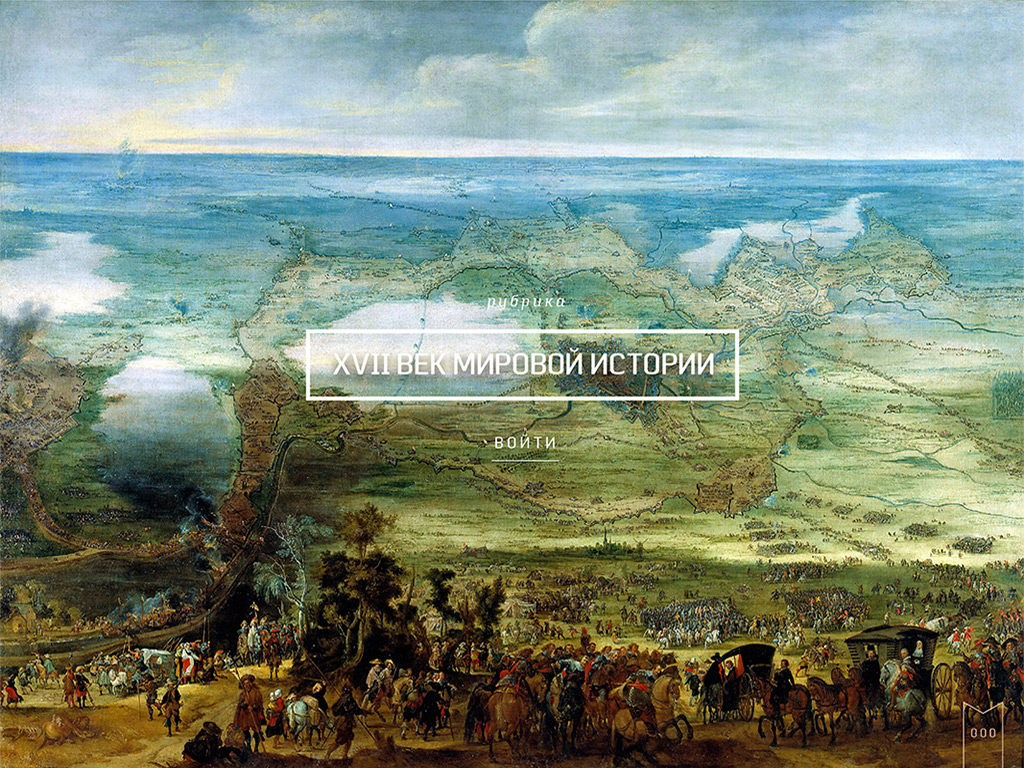
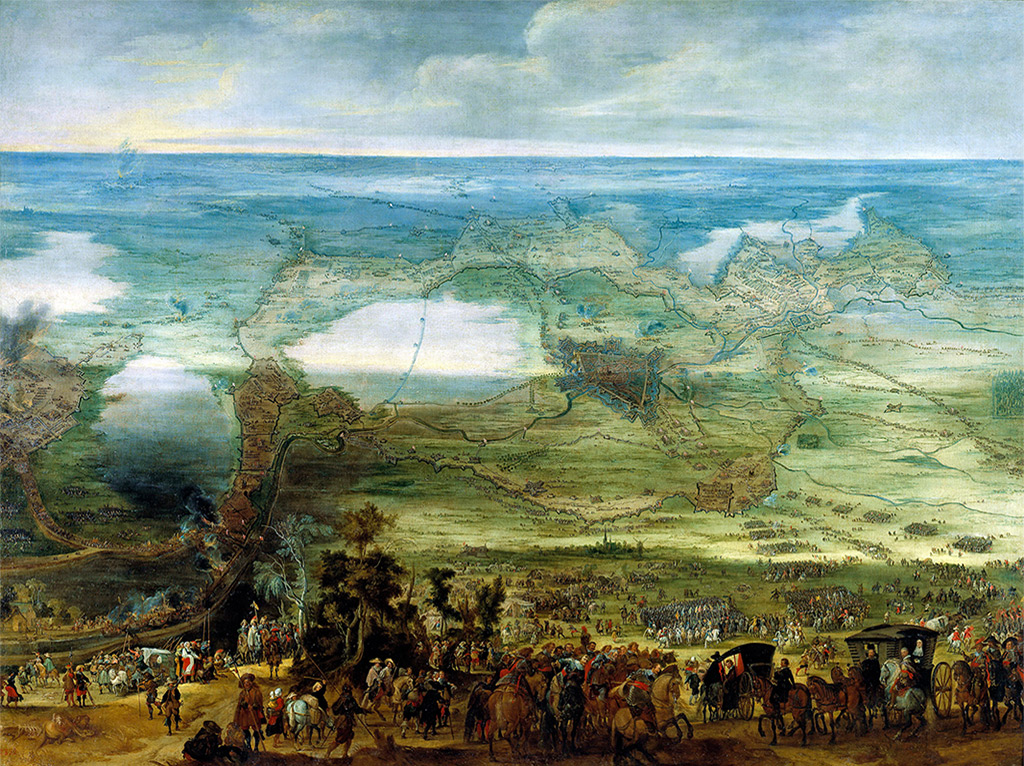
Added photo slider

diff --git a/ibooks/css/all.css b/ibooks/css/all.css
@@ -166,7 +166,7 @@ a:visited{
         padding: 0 80px;
         position: relative;
     }
-    .carousel-content:not([class*="foreword-begin"]):after{
+    .carousel-content:not([class*="begin_slide"]):after{
         content: "";
         width: 42px;
         height: 68px;
@@ -175,10 +175,10 @@ a:visited{
         bottom: 0;
         background: url("../images/bg/all.png") no-repeat 0 -347px;
     }
-    .foreword-begin_cathedral{
+    [class*="foreword-begin"]{
         background: url("../images/src/preface-bg.jpg") no-repeat 0 0;
     }
-    .foreword-end_map{
+    [class*="foreword-end"]{
         background: url("../images/src/preface-end-bg.jpg") no-repeat 0 0;
     }
         .logo{
@@ -290,6 +290,46 @@ footer{
     margin: 32px 0 0;
 }
 
+/*  Last slide*/
+
+[class*="end_slide"] table{
+    text-align: center;
+    height: 100%;
+    font: 16px/16px 'pancetta_proregular';
+    color: #ffffff;
+}
+    [class*="end_slide"] td{
+        vertical-align: middle;
+    }
+        [class*="end_slide"] i{
+            display: inline-block;
+            font: 16px/16px 'pancetta_serif_proitalic';
+            letter-spacing: 2.8px;
+            margin: 0;
+            position: relative;
+            top: -14px;
+        }
+        [class*="end_slide"] strong{
+            border: 5px solid #ffffff;
+            display: inline-block;
+            font: 30px/63px 'pancetta_proregular';
+            letter-spacing: 0.2px;
+            margin: 0 0 31px;
+            padding: 0 22px;
+            position: relative;
+            text-transform: uppercase;
+            top: 5px;
+            text-shadow: 0px 3px 8px rgba(0, 0, 0, 1);
+        }
+        [class*="end_slide"] a{
+            border-bottom: 1px solid #ffffff;
+            display: inline-block;
+            font: 17px/33px 'pancetta_proregular';
+            letter-spacing: 2.4px;
+            padding: 0 5px;
+            text-transform: uppercase;
+        }
+
 /*  Internal Slider style*/
 
 .internal-slider{
@@ -301,10 +341,26 @@ footer{
     padding: 0 0 0 4px;
     border-left: 1px solid #d9c4af;
 }
+.internal-slider.owl-carousel{
+    border: 0;
+    padding: 0;
+}
     .internal-slider .slide1{
         background: url("../images/src/slide1.jpg") no-repeat 0 0 /cover;
         height: 100%;
     }
+    .internal-slider .slide2{
+        background: url("../images/src/slide2.jpg") no-repeat 0 0 /cover;
+        height: 100%;
+    }
+.internal-slider .slide3{
+    background: url("../images/src/slide3.jpg") no-repeat 0 0 /cover;
+    height: 100%;
+}
+.internal-slider .slide4{
+    background: url("../images/src/slide4.jpg") no-repeat 0 0 /cover;
+    height: 100%;
+}
         .glb{
             width: 44px;
             height: 44px;
@@ -346,4 +402,16 @@ footer{
 }
 .gm-style-cc[draggable="false"]{
     display: none;
+}
+
+.owl-controls{
+    bottom: 0;
+    height: 66px;
+    left: inherit;
+    right: 0;
+    width: 99%;
+    background: url("../images/bg/pagination-bg.png") repeat-x;
+}
+.owl-page{
+
 }

diff --git a/ibooks/preface.html b/ibooks/preface.html
@@ -16,13 +16,14 @@
     <script src="https://maps.googleapis.com/maps/api/js?v=3.exp&language=ru"></script>
 
 
+
 </head>
 
 <body>
 
-    <div class="owl-carousel owl-theme global-carousel">
+    <div class="owl-carousel global-carousel">
         <div class="item">
-            <div class="carousel-content foreword-begin_cathedral">
+            <div class="carousel-content foreword-begin_slide">
                 <h1 class="logo">Предисловие</h1>
             </div>
         </div>
@@ -41,8 +42,17 @@
                         </td>
                     </tr>
                 </table>
-                <div class="internal-slider">
+                <div class="global-carousel">
                     <div class="slide1">
+                        <a class="glb fancy_map" href="#map_canvas"></a>
+                    </div>
+                    <div class="slide2">
+                        <a class="glb fancy_map" href="#map_canvas"></a>
+                    </div>
+                    <div class="slide3">
+                        <a class="glb fancy_map" href="#map_canvas"></a>
+                    </div>
+                    <div class="slide4">
                         <a class="glb fancy_map" href="#map_canvas"></a>
                     </div>
                 </div>
@@ -111,7 +121,16 @@
             </div>
         </div>
         <div class="item">
-            <div class="carousel-content foreword-end_map">
+            <div class="carousel-content foreword-end_slide">
+                <table cellspacing="0" cellpadding="0" >
+                    <tr>
+                        <td>
+                            <i>рубрика</i> </br>
+                            <strong>XVII ВЕК МИРОВОЙ ИСТОРИИ</strong> </br>
+                            <a href="#">ВОЙТИ</a>
+                        </td>
+                    </tr>
+                </table>
             </div>
         </div>
     </div>
@@ -203,8 +222,7 @@
 
 </script>
 
-<!--
-<script src="script/pixp/hotkeys.js"></script>
+<!--<script src="script/pixp/hotkeys.js"></script>
 <script src="script/pixp/jquery-cookie.js"></script>
 <script src="script/pixp/jquery-ui.js"></script>
 <script src="script/pixp/pixp.min.js"></script>-->

diff --git a/ibooks/script/owl.carousel.js b/ibooks/script/owl.carousel.js
@@ -293,7 +293,7 @@ if (typeof Object.create !== "function") {
 
 
             $(window).load(function() {
-                $activeItem.css('margin-top' , $activeImg.height() / 2 - $activeItemHeight);
+               /* $activeItem.css('margin-top' , $activeImg.height() / 2 - $activeItemHeight);*/
                 $activeItem2.css('margin-top' , $activeImg.height() / 2 - $activeItemHeight2);
             });
 
@@ -1058,6 +1058,7 @@ if (typeof Object.create !== "function") {
                         handlers = $._data(ev.target, "events").click;
                         owlStopEvent = handlers.pop();
                         handlers.splice(0, 0, owlStopEvent);
+
                     }
                 }
                 swapEvents("off");
@@ -1510,7 +1511,7 @@ if (typeof Object.create !== "function") {
         responsiveRefreshRate : 200,
         responsiveBaseWidth : window,
 
-        baseClass : "owl-carousel",
+        baseClass : "internal-slider",
         theme : "owl-theme",
 
         lazyLoad : false,
@@ -1522,11 +1523,11 @@ if (typeof Object.create !== "function") {
         jsonPath : false,
         jsonSuccess : false,
 
-        dragBeforeAnimFinish : true,
+        dragBeforeAnimFinish : false,
         mouseDrag : true,
         touchDrag : true,
 
-        addClassActive : false,
+        addClassActive : true,
         transitionStyle : false,
 
         beforeUpdate : false,

diff --git a/ibooks/css/owl.carousel.css b/ibooks/css/owl.carousel.css
@@ -45,14 +45,14 @@ div.owl-carousel{
 .owl-controls .owl-buttons div{
 	cursor: pointer;
 }
-/*.owl-controls {
+.owl-controls {
 	-webkit-user-select: none;
 	-khtml-user-select: none;
 	-moz-user-select: none;
 	-ms-user-select: none;
 	user-select: none;
 	-webkit-tap-highlight-color: rgba(0, 0, 0, 0);
-}*/
+}
 
 /* mouse grab icon */
 /*.grabbing {
@@ -75,18 +75,25 @@ div.owl-carousel{
     left: 0;
     right: 0;
     bottom: 16px;
+    text-align: center;
+    display: none !important;
+}
+.internal-slider .internal-slider .owl-controls{
+    display: block !important;
+}
+.owl-pagination{
+    margin-top: -6px;
 }
 
 .owl-pagination .owl-page{
     display: inline-block;
-    width: 7px;
-    height: 7px;
-    border-radius: 50%;
-    border: 5px solid transparent;
-    background: url("../images/bg/all.png") -36px -160px transparent;
+    width: 10px;
+    height: 10px;
+    background: url("../images/bg/all.png") no-repeat 0 -525px transparent;
     vertical-align: middle;
+    margin: 0 3.5px 0;
 }
 .owl-pagination .owl-page.active{
-    background-position: -19px -160px;
+    background-position: 0 -467px;
 }
 

diff --git a/ibooks/script/all.js b/ibooks/script/all.js
@@ -3,7 +3,6 @@ $(function() {
     /*- Promo Carousel -*/
 
     $(".global-carousel").owlCarousel({
-        pagination : false,
         slideSpeed : 300,
         paginationSpeed : 400,
         singleItem:true
@@ -20,8 +19,8 @@ $(function() {
         wrapCSS   : 'desc_popup',
         closeEffect: 'none'
     });
-
     /*- Fancybox popups End -*/
+
 
 });
 
